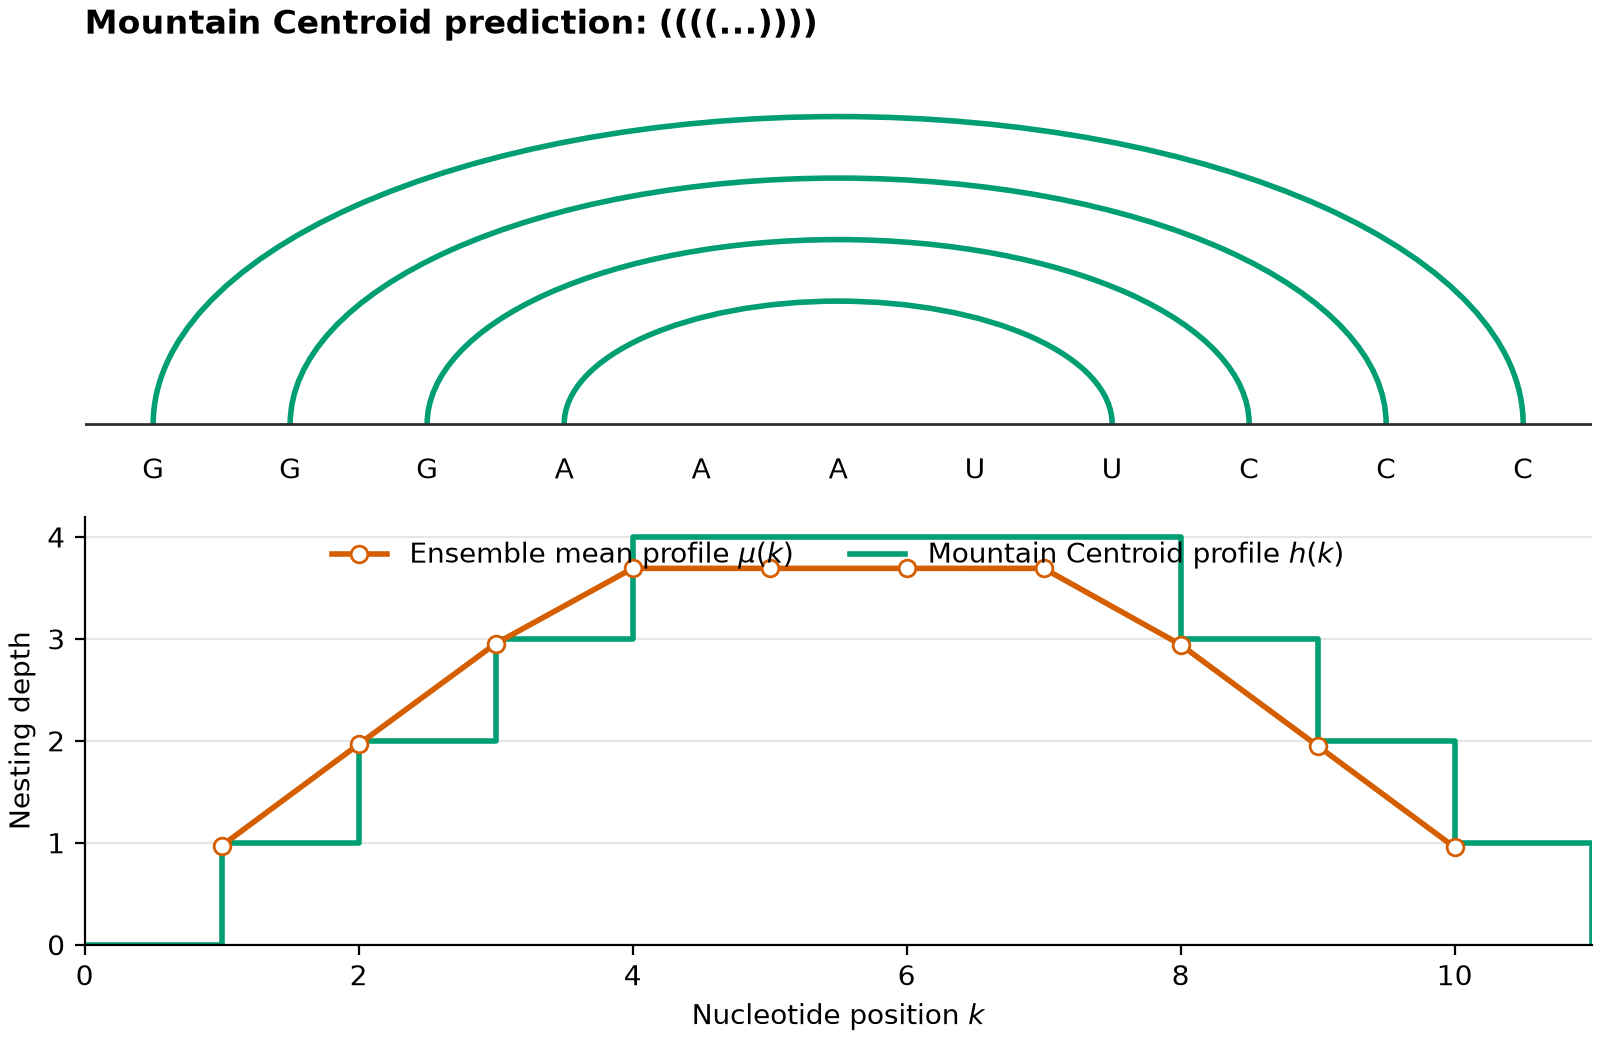
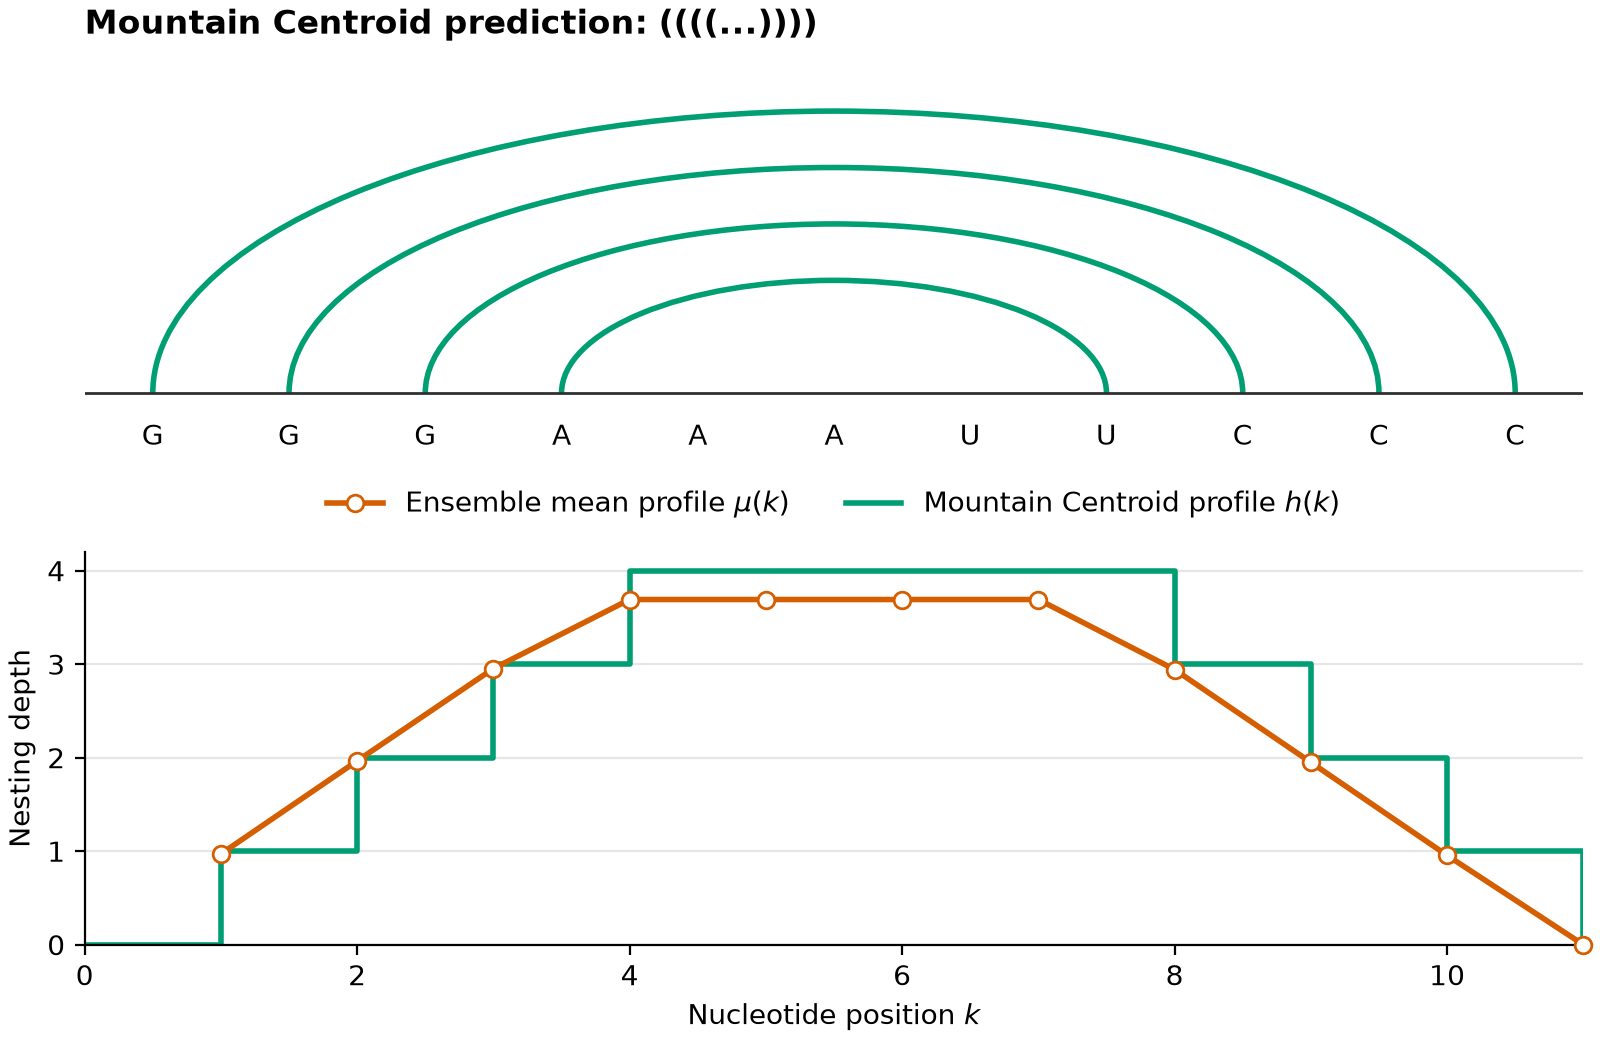
Refine the demonstration profile plot

diff --git a/examples/plot_demo.py b/examples/plot_demo.py
@@ -50,14 +50,15 @@ def draw_structure(axis: plt.Axes, prediction: Prediction) -> None:
 def draw_profiles(axis: plt.Axes, prediction: Prediction) -> None:
     """Draw the ensemble mean and predicted mountain profiles."""
     n = len(prediction.sequence)
-    boundaries = range(1, n)
+    boundaries = range(1, n + 1)
     axis.plot(
         boundaries,
-        prediction.expected_mountain_heights,
+        (*prediction.expected_mountain_heights, 0.0),
         color=EXPECTED_COLOR,
         marker="o",
         markerfacecolor="white",
         linewidth=2,
+        clip_on=False,
         label=r"Ensemble mean profile $\mu(k)$",
         zorder=3,
     )
@@ -76,7 +77,12 @@ def draw_profiles(axis: plt.Axes, prediction: Prediction) -> None:
     axis.set_ylabel("Nesting depth")
     axis.grid(axis="y", color="#E6E6E6", linewidth=0.8)
     axis.spines[["top", "right"]].set_visible(False)
-    axis.legend(frameon=False, loc="upper center", ncols=2)
+    axis.legend(
+        frameon=False,
+        loc="lower center",
+        bbox_to_anchor=(0.5, 1.02),
+        ncols=2,
+    )
 
 
 def main() -> None:
